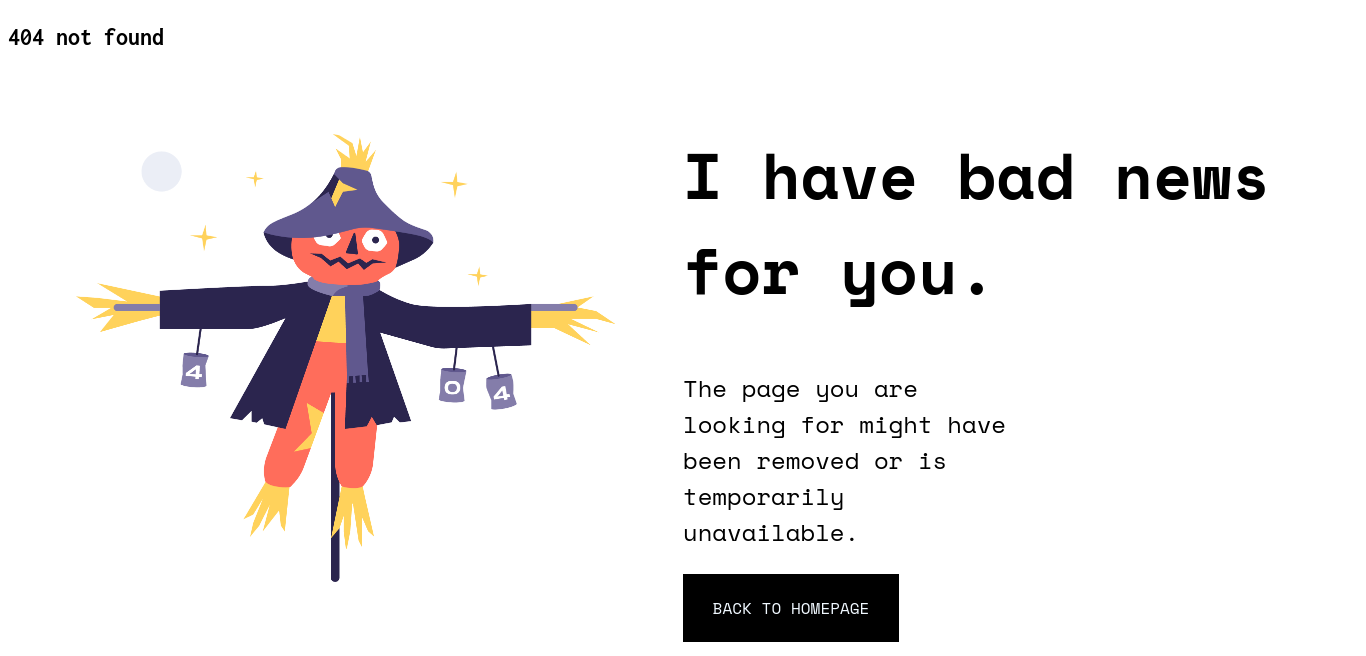
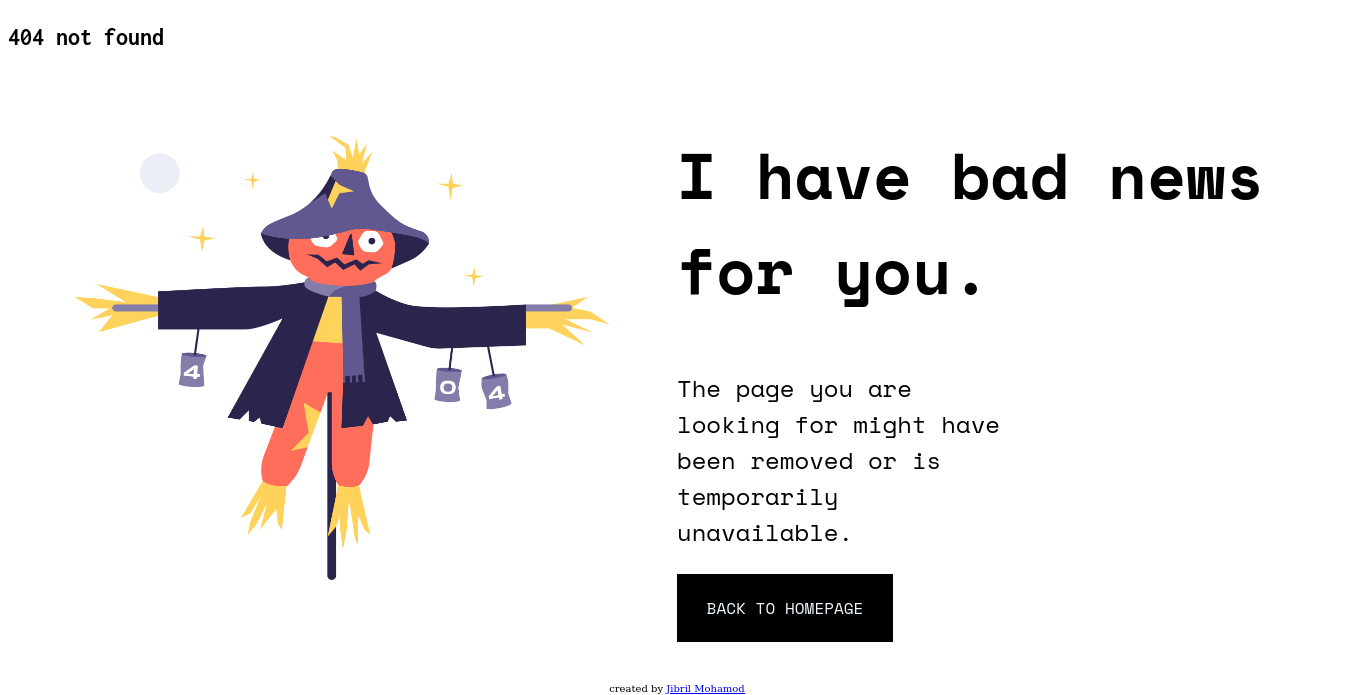
changes

diff --git a/style.css b/style.css
@@ -44,15 +44,22 @@ article {
     place-items: center;
 }
 
-a {
+section a {
     text-decoration: none;
     color: aliceblue;
 }
 
+footer {
+    position: relative;
+    bottom: -40px;
+    text-align: center;
+    font-size: 10px;
+}
+
 @media screen and (max-width: 375px) {
     html {
-        height: 949px;
-        border: 1px solid red;
+        /* height: 949px; */
+        /* border: 1px solid red; */
     }
     main {
         display: flex;

diff --git a/index.html b/index.html
@@ -39,5 +39,8 @@
     </main>
 
 </body>
+<footer>
+    created by <a href="twitter.com/ShadaYaMwisho">Jibril Mohamod</a>
+</footer>
 
 </html>

diff --git a/README.md b/README.md
@@ -11,7 +11,7 @@
 
 ## Overview
 
-![screenshot](/home/jibril/Desktop/Challenges/devchallenges/ch1/404-not-found-master/screenshot/desktop.png)
+![screenshot](/404-not-found-master/screenshot/desktop.png)
 
 ### Built With
 
